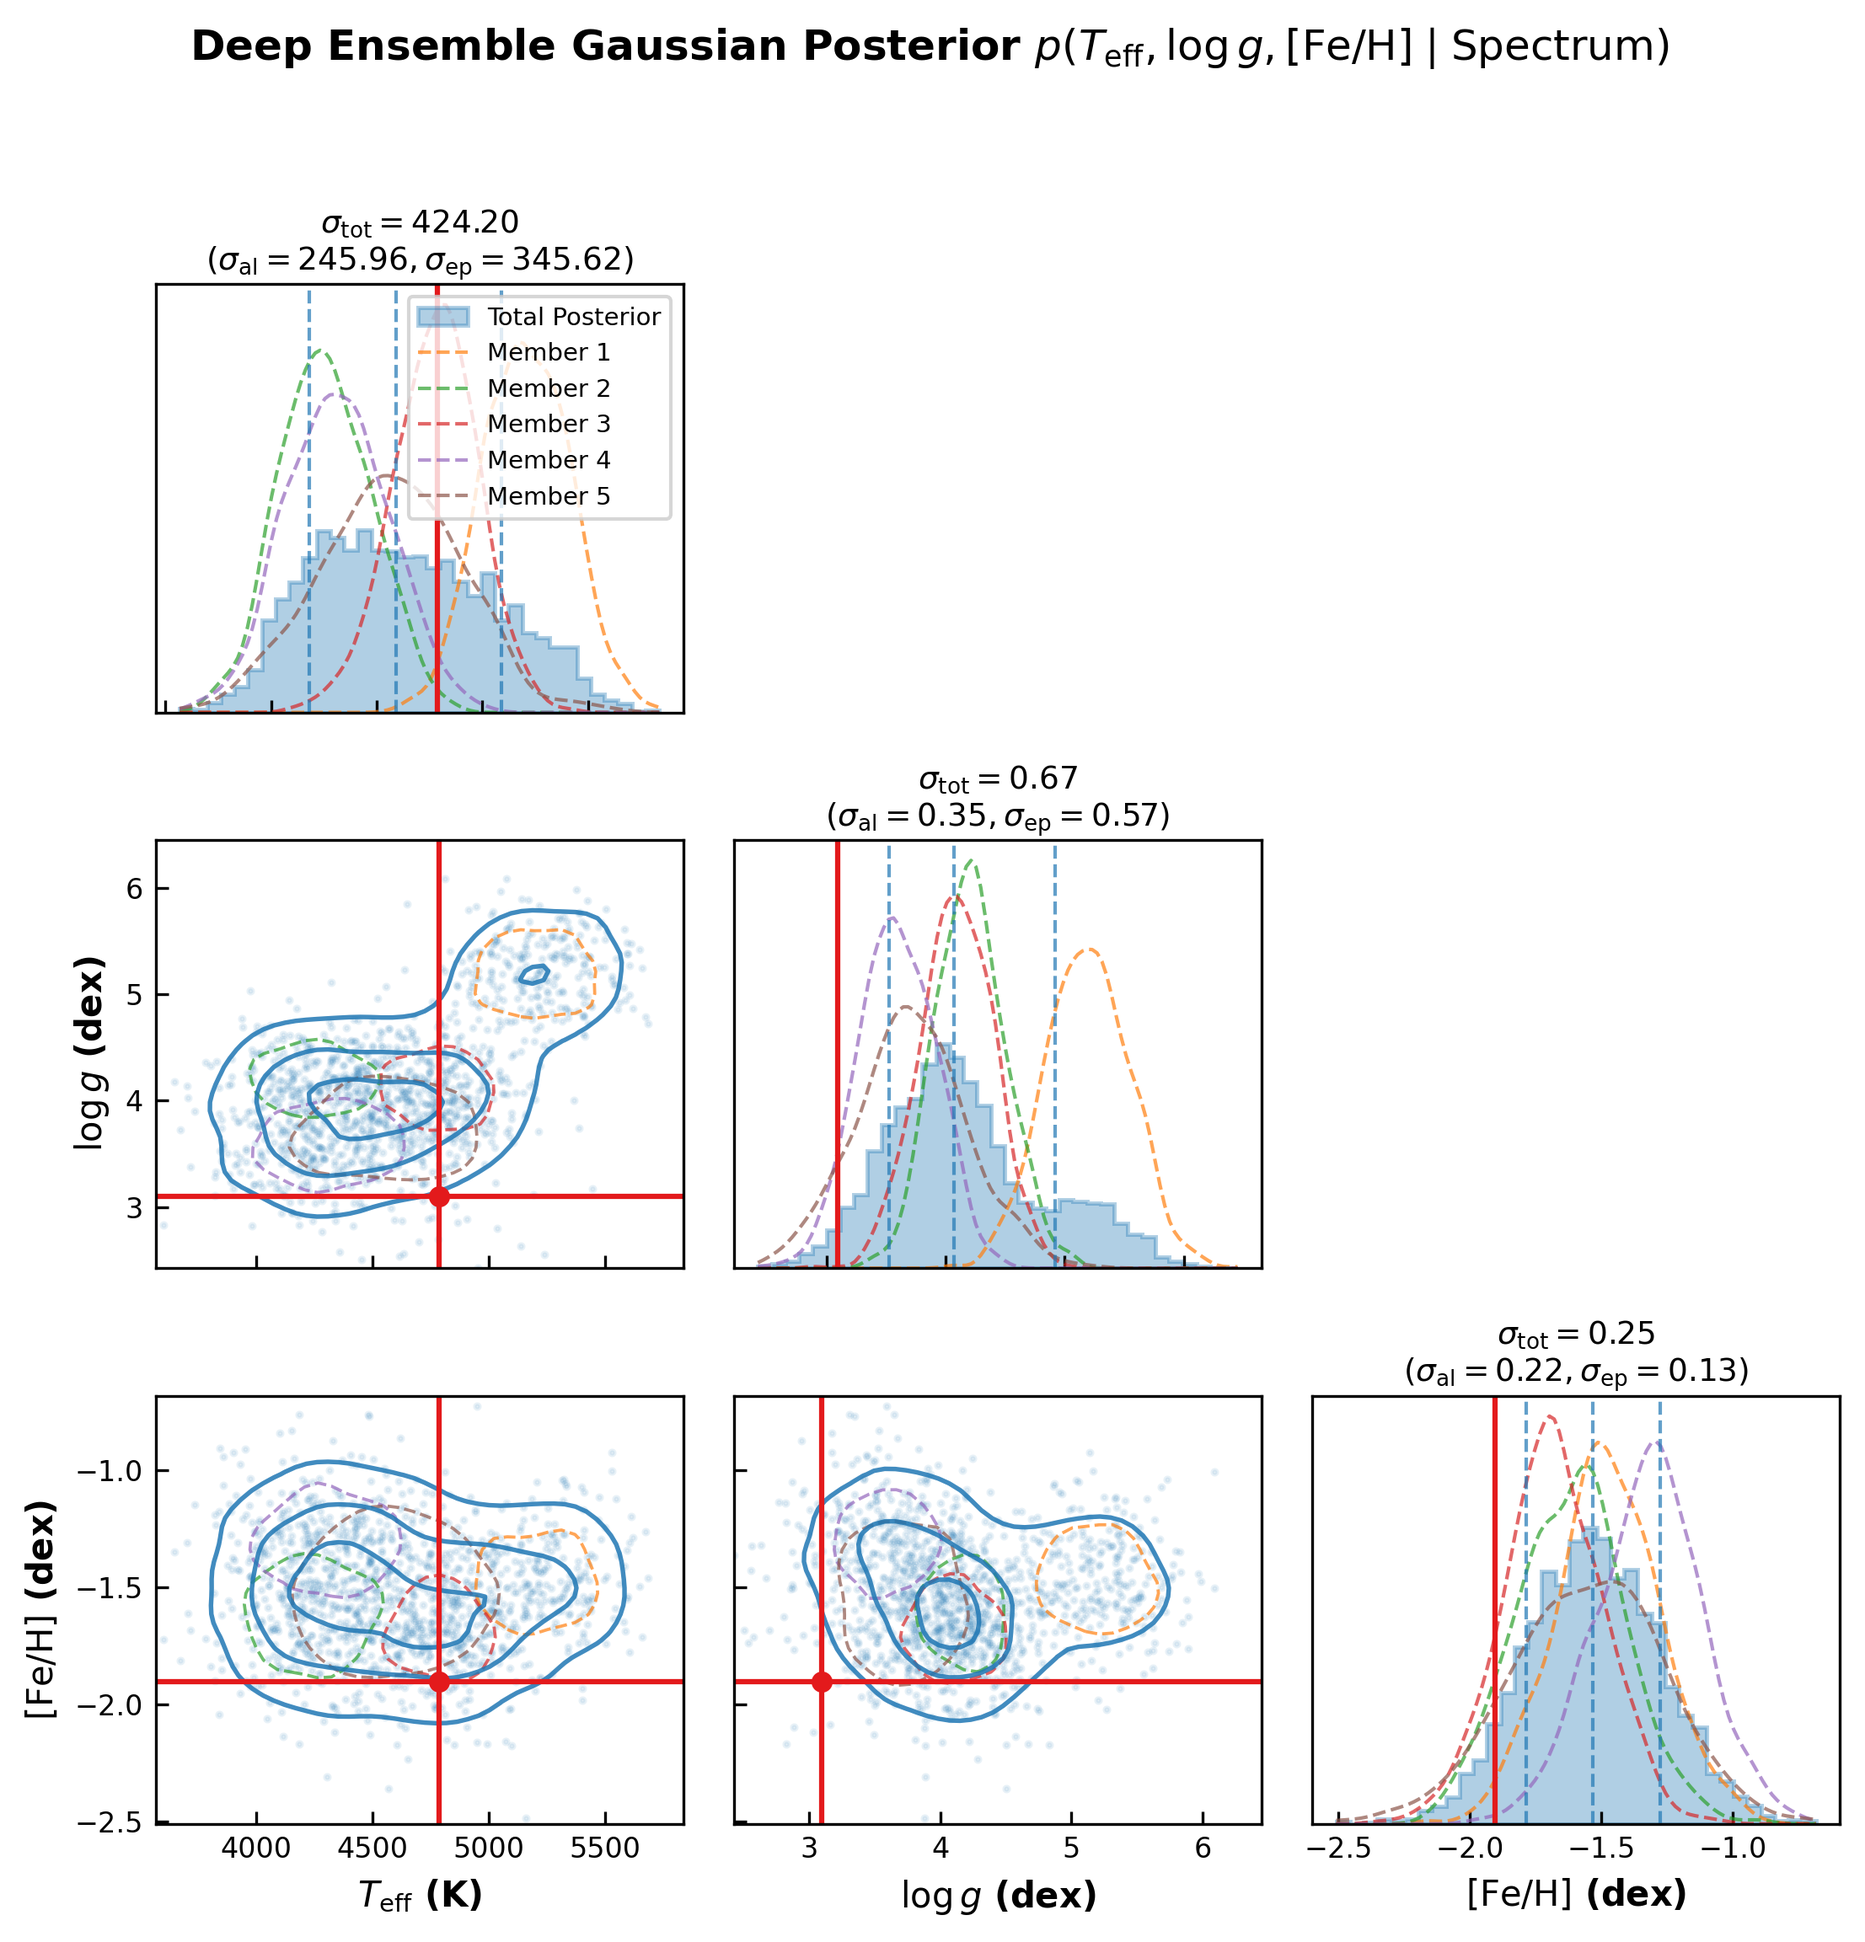
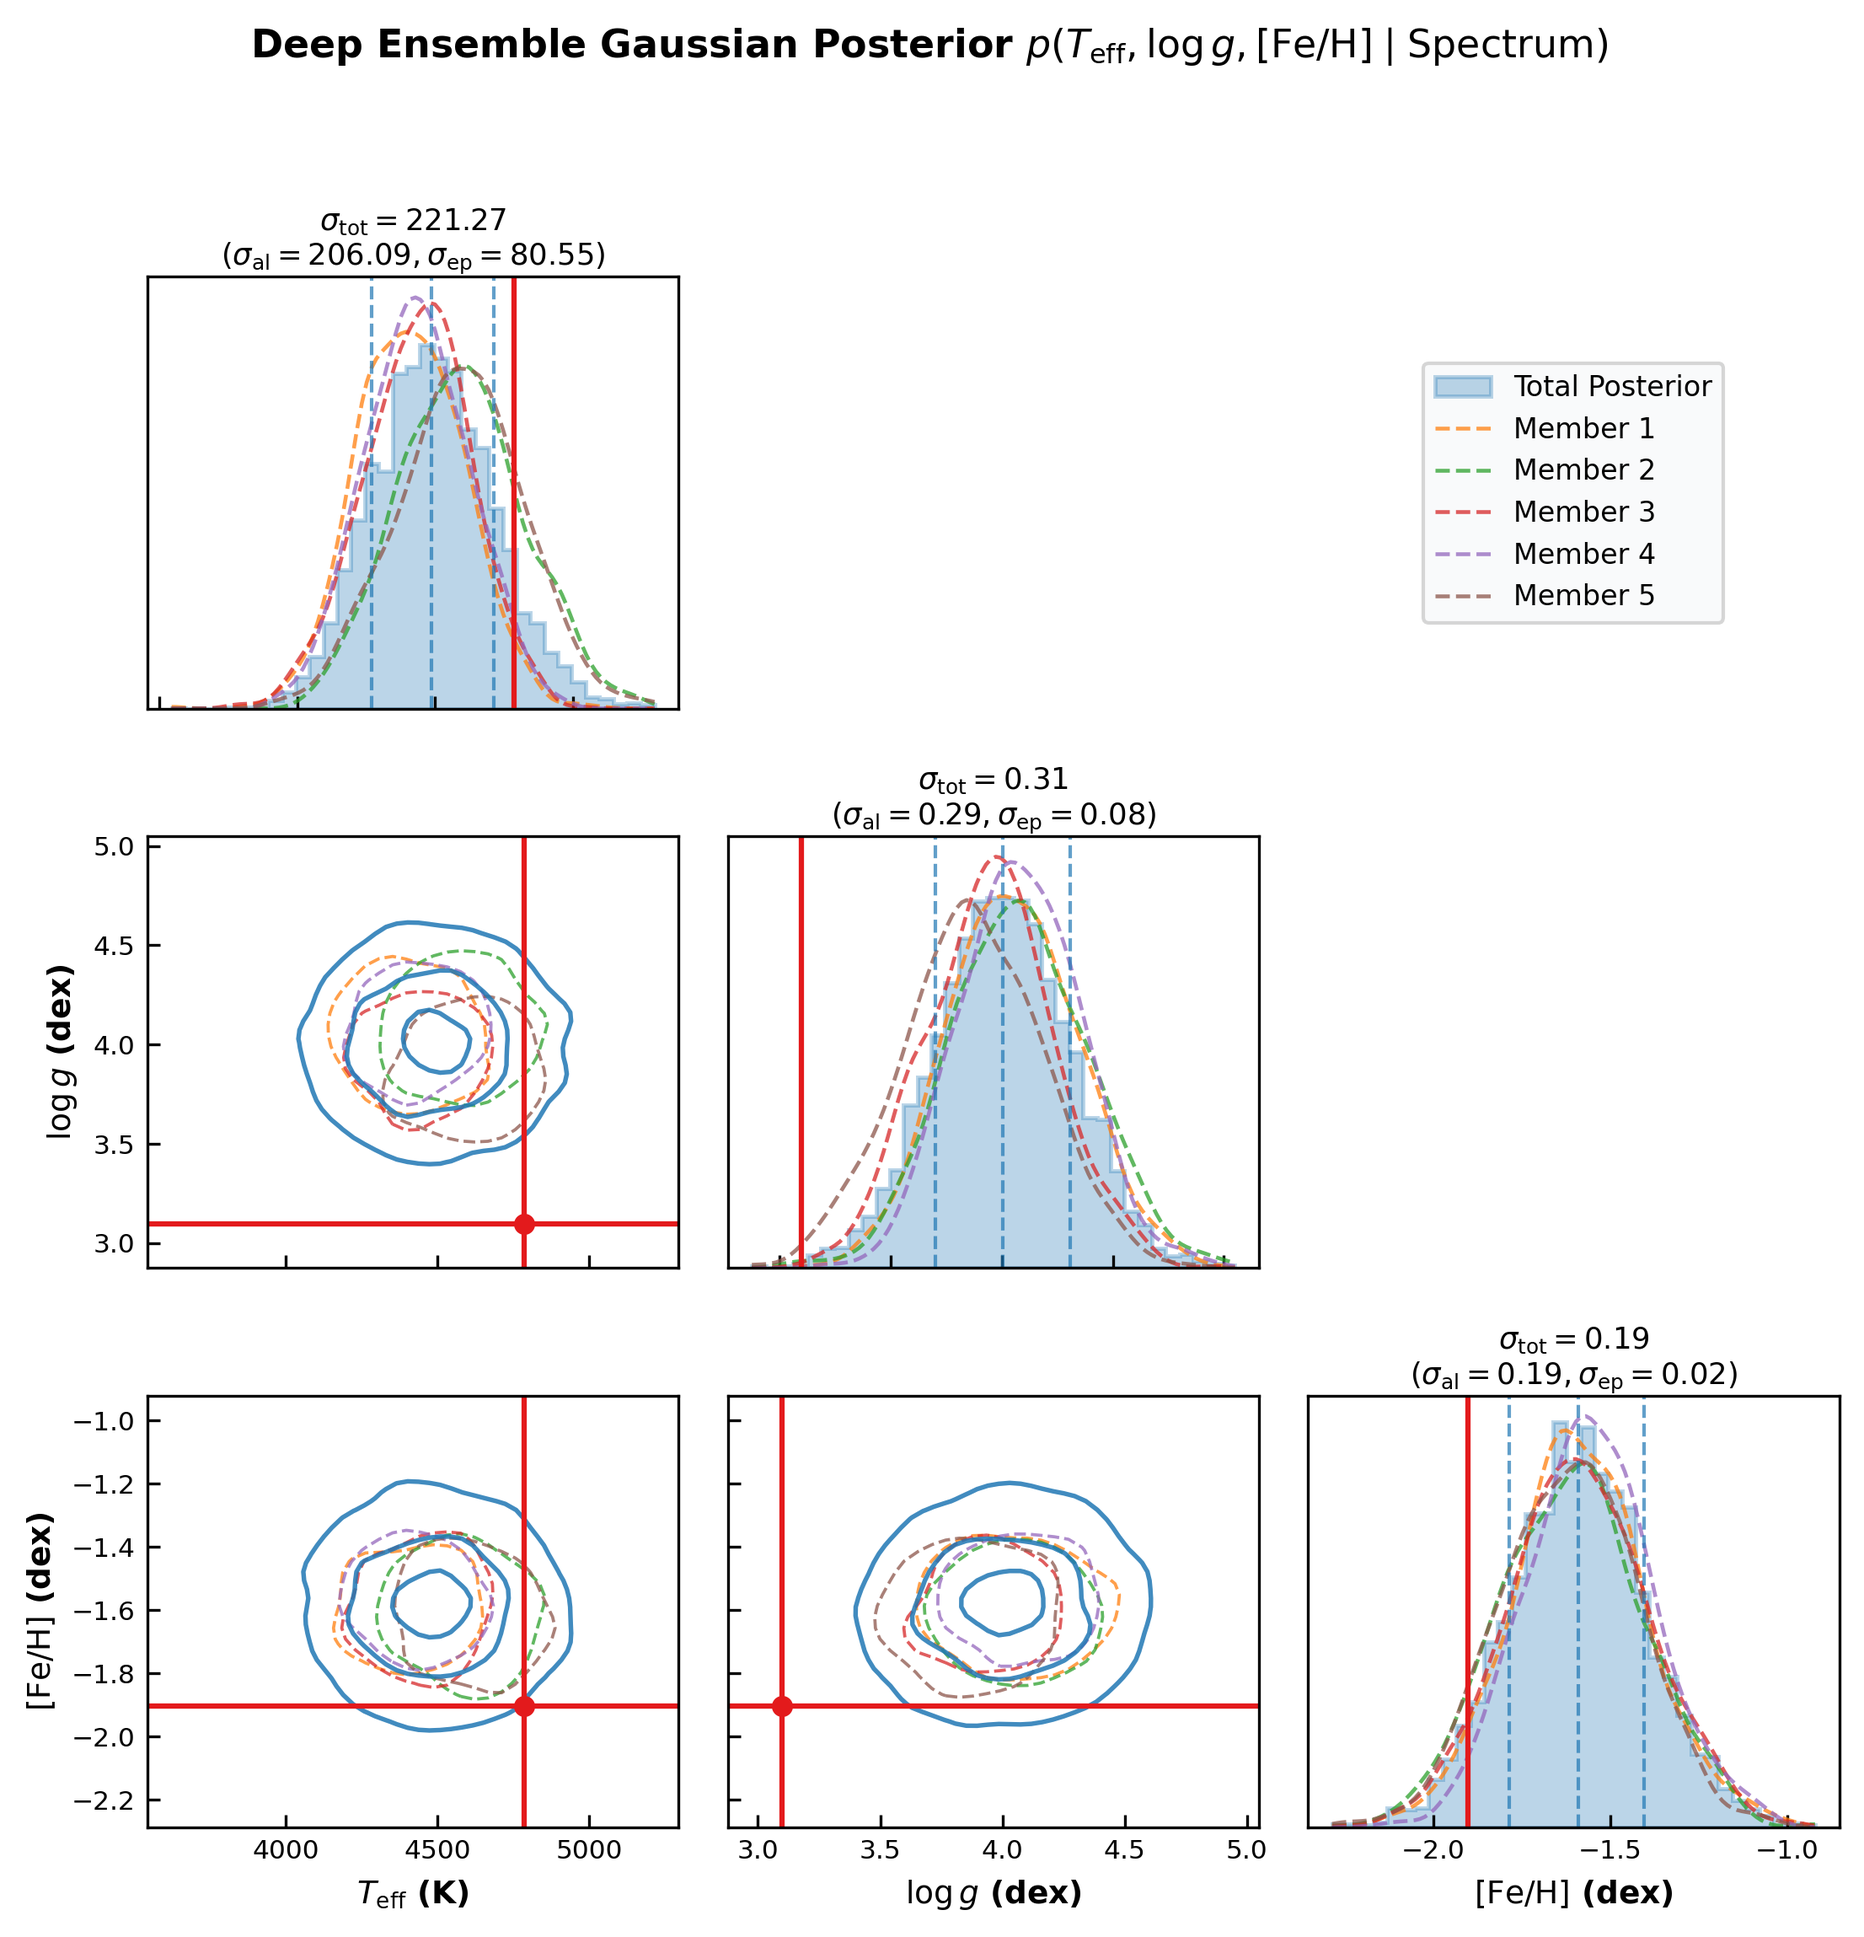
refactor(viz,examples): refine plot_corner_plot layout, legend placement, and add cosine learning rate schedule to stellar spectra ensemble examples

diff --git a/src/torchregress/viz/results.py b/src/torchregress/viz/results.py
@@ -1191,6 +1191,7 @@ def plot_corner_plot(
     quantiles: tuple[float, ...] = (0.16, 0.50, 0.84),
     show_titles: bool = True,
     show_uncertainty_decomposition: bool = True,
+    show_scatter: bool | None = None,
     title: str | None = None,
     color: str = "#1f77b4",
     truth_color: str = "#e31a1c",
@@ -1212,6 +1213,8 @@ def plot_corner_plot(
         quantiles: Quantiles for 1D marginal dashed lines (default: 0.16, 0.50, 0.84)
         show_titles: Whether to add percentile summary titles over 1D marginals
         show_uncertainty_decomposition: Whether to display aleatoric vs epistemic std decomposition
+        show_scatter: Whether to display background scatter points in 2D plots
+            (default: True for single model, False for ensemble)
         title: Overall title for corner plot figure
         color: Primary color for marginal histograms and total 2D density contours
         truth_color: Color for ground-truth reference lines
@@ -1247,6 +1250,9 @@ def plot_corner_plot(
         msg = f"param_names length ({len(param_names)}) must match n_params ({n_params})"
         raise ValueError(msg)
 
+    if show_scatter is None:
+        show_scatter = member_samples is None
+
     if figsize is None:
         figsize = (2.5 * n_params, 2.5 * n_params)
 
@@ -1257,10 +1263,10 @@ def plot_corner_plot(
     # Pre-compute uncertainty decomposition if members are provided
     alea_std, epi_std, tot_std = None, None, None
     if member_samples is not None and len(member_samples) > 1:
-        member_means = np.array([np.mean(ms, axis=0) for ms in member_samples])  # [M, n_params]
-        member_vars = np.array([np.var(ms, axis=0) for ms in member_samples])  # [M, n_params]
-        alea_var = np.mean(member_vars, axis=0)  # Average within-member variance
-        epi_var = np.var(member_means, axis=0)  # Variance of member means
+        member_means = np.array([np.mean(ms, axis=0) for ms in member_samples])
+        member_vars = np.array([np.var(ms, axis=0) for ms in member_samples])
+        alea_var = np.mean(member_vars, axis=0)
+        epi_var = np.var(member_means, axis=0)
         tot_var = alea_var + epi_var
 
         alea_std = np.sqrt(alea_var)
@@ -1289,7 +1295,7 @@ def plot_corner_plot(
                     bins=35,
                     density=True,
                     histtype="stepfilled",
-                    alpha=0.35,
+                    alpha=0.30,
                     color=color,
                     edgecolor=color,
                     linewidth=1.2,
@@ -1309,10 +1315,10 @@ def plot_corner_plot(
                                 x_grid_1d,
                                 kde_m(x_grid_1d),
                                 color=member_colors[m_idx],  # type: ignore[index]
-                                linewidth=1.0,
+                                linewidth=1.1,
                                 linestyle="--",
-                                alpha=0.7,
-                                label=f"Member {m_idx + 1}" if (i == 0 and j == 0) else None,
+                                alpha=0.75,
+                                label=f"Member {m_idx + 1}",
                             )
                         except Exception:
                             pass
@@ -1343,7 +1349,7 @@ def plot_corner_plot(
                                 if param_names[i]
                                 else ""
                             )
-                        ax.set_title(p_title, fontsize=9, pad=4)
+                        ax.set_title(p_title, fontsize=8.5, pad=3)
 
                 if true_vals is not None and i < len(true_vals):
                     ax.axvline(true_vals[i], color=truth_color, linestyle="-", linewidth=1.5)
@@ -1355,7 +1361,10 @@ def plot_corner_plot(
                 x_dim = samples[:, j]
                 y_dim = samples[:, i]
 
-                ax.scatter(x_dim[::4], y_dim[::4], s=2, color=color, alpha=0.10, rasterized=True)
+                if show_scatter:
+                    ax.scatter(
+                        x_dim[::4], y_dim[::4], s=2, color=color, alpha=0.10, rasterized=True
+                    )
 
                 # Overlay member 2D contours if provided
                 if member_samples is not None:
@@ -1380,7 +1389,7 @@ def plot_corner_plot(
                                 colors=member_colors[m_idx],  # type: ignore[index]
                                 linewidths=0.9,
                                 linestyles="--",
-                                alpha=0.7,
+                                alpha=0.75,
                             )
                         except Exception:
                             pass
@@ -1425,22 +1434,38 @@ def plot_corner_plot(
 
             # Labels and tick formatting
             if i == n_params - 1:
-                ax.set_xlabel(param_names[j], fontsize=10, fontweight="bold")
+                ax.set_xlabel(param_names[j], fontsize=9, fontweight="bold")
             else:
                 ax.set_xticklabels([])
 
             if j == 0 and i != 0:
-                ax.set_ylabel(param_names[i], fontsize=10, fontweight="bold")
+                ax.set_ylabel(param_names[i], fontsize=9, fontweight="bold")
             elif i != j:
                 ax.set_yticklabels([])
 
-            ax.tick_params(direction="in", labelsize=8)
+            ax.tick_params(direction="in", labelsize=7.5)
 
     if title:
-        fig.suptitle(title, fontsize=12, fontweight="bold", y=1.02)
+        fig.suptitle(title, fontsize=11, fontweight="bold", y=1.02)
 
-    if member_samples is not None:
-        axes[0, 0].legend(loc="upper right", fontsize=7, frameon=True)
+    # Place legend cleanly in upper right empty corner cell (0, n_params - 1)
+    if member_samples is not None and n_params > 1:
+        top_right_ax = axes[0, n_params - 1]
+        top_right_ax.axis("on")
+        top_right_ax.set_xticks([])
+        top_right_ax.set_yticks([])
+        for spine in top_right_ax.spines.values():
+            spine.set_visible(False)
+        handles, labels = axes[0, 0].get_legend_handles_labels()
+        top_right_ax.legend(
+            handles,
+            labels,
+            loc="center",
+            fontsize=8,
+            frameon=True,
+            facecolor="#f8f9fa",
+            edgecolor="#cccccc",
+        )
 
     plt.tight_layout()
 

diff --git a/examples/stellar_spectra_ensemble_flows.py b/examples/stellar_spectra_ensemble_flows.py
@@ -156,16 +156,18 @@ def main():
         for m_idx, member in enumerate(ensemble.models):
             torch.manual_seed(42 + m_idx * 10)
             optimizer = torch.optim.AdamW(member.parameters(), lr=1e-3, weight_decay=1e-4)
+            scheduler = torch.optim.lr_scheduler.CosineAnnealingLR(optimizer, T_max=35)
             dataset = TensorDataset(train_spectra, train_targets_norm)
             loader = DataLoader(dataset, batch_size=64, shuffle=True)
 
             member.train()
-            for epoch in range(25):
+            for epoch in range(35):
                 for spec_b, target_b in loader:
                     optimizer.zero_grad()
                     loss = member(spec_b, target_b)
                     loss.backward()
                     optimizer.step()
+                scheduler.step()
 
     _, fit_seconds = timed_call(train_flow_ensemble()) if False else timed_call(train_flow_ensemble)
     print(f"   Flow Ensemble training completed in {fit_seconds:.2f} seconds.")

diff --git a/examples/stellar_spectra_ensemble.py b/examples/stellar_spectra_ensemble.py
@@ -141,17 +141,19 @@ def main():
         for m_idx, member in enumerate(ensemble.models):
             torch.manual_seed(42 + m_idx)
             optimizer = torch.optim.AdamW(member.parameters(), lr=1e-3, weight_decay=1e-4)
+            scheduler = torch.optim.lr_scheduler.CosineAnnealingLR(optimizer, T_max=40)
             dataset = TensorDataset(train_spectra, train_targets_norm)
             loader = DataLoader(dataset, batch_size=64, shuffle=True)
 
             member.train()
-            for epoch in range(25):
+            for epoch in range(40):
                 for spec_b, target_b in loader:
                     optimizer.zero_grad()
                     out = member(spec_b)
                     loss = loss_fn(out, target_b)
                     loss.backward()
                     optimizer.step()
+                scheduler.step()
 
     _, fit_seconds = timed_call(train_ensemble)
     print(f"   Ensemble training completed in {fit_seconds:.2f} seconds.")
